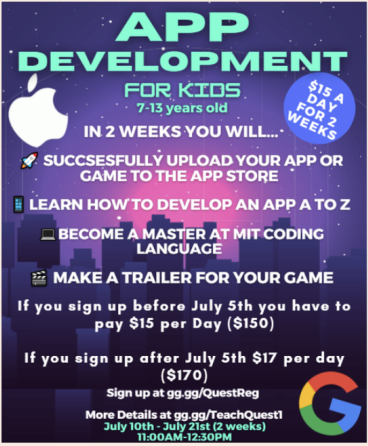
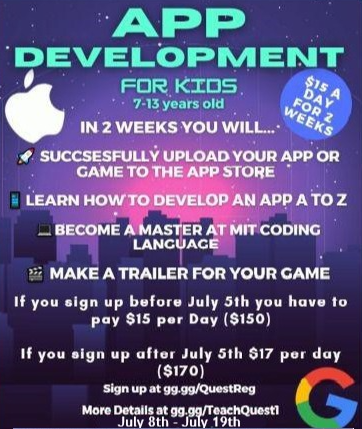
Updated images and added registration

diff --git a/index.html b/index.html
@@ -38,17 +38,15 @@
             <img src="images/arrow-left.svg" alt="Left Arrow" class="left-arrow">
             <div class="images">
                 <img src="images/appdev.png" alt="App Development Camp">
-                <img src="images/disney.png" alt="Disney Animation Camp">
-                <img src="images/gifted.png" alt="Gifted Test Preparation Camp">
-                <img src="images/python.png" alt="Python Game Development Camp">
                 <img src="images/chess.png" alt="Chess Masters Summer Camp">
-                <img src="images/algebra.png" alt="Foundations of Algebra 1 Camp">
                 <img src="images/minecraft.png" alt="Minecraft Coding/Modding Camp">
+                <img src="images/python.png" alt="Python Game Development Camp">
+                <img src="images/disney.png" alt="Disney Animation Camp">
+                <img src="images/htmlwebsite.png" alt="HTML Website Camp">
             </div>
             <img src="images/arrow-right.svg" alt="Right Arrow" class="right-arrow">
         </div>
         <div class="dots">
-            <div class="dot"></div>
             <div class="dot"></div>
             <div class="dot"></div>
             <div class="dot"></div>
@@ -77,6 +75,11 @@
                 <div class="results"></div>
             </div>
         </div>
+    </section>
+
+    <section class="registration">
+        <h1 id="registration">Registration</h1>
+        <script type="text/javascript" src="https://form.jotform.com/jsform/231748000992153"></script>
     </section>
 </body>
 </html>
